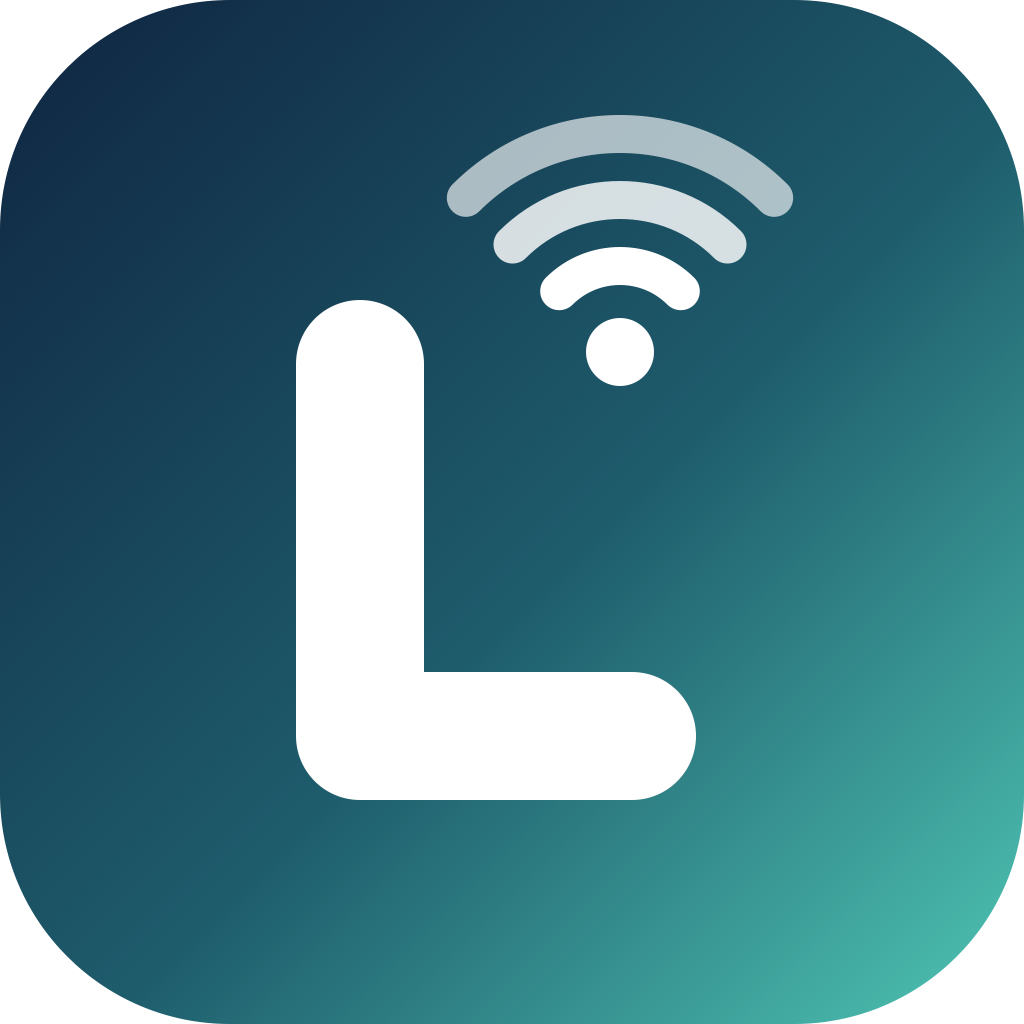
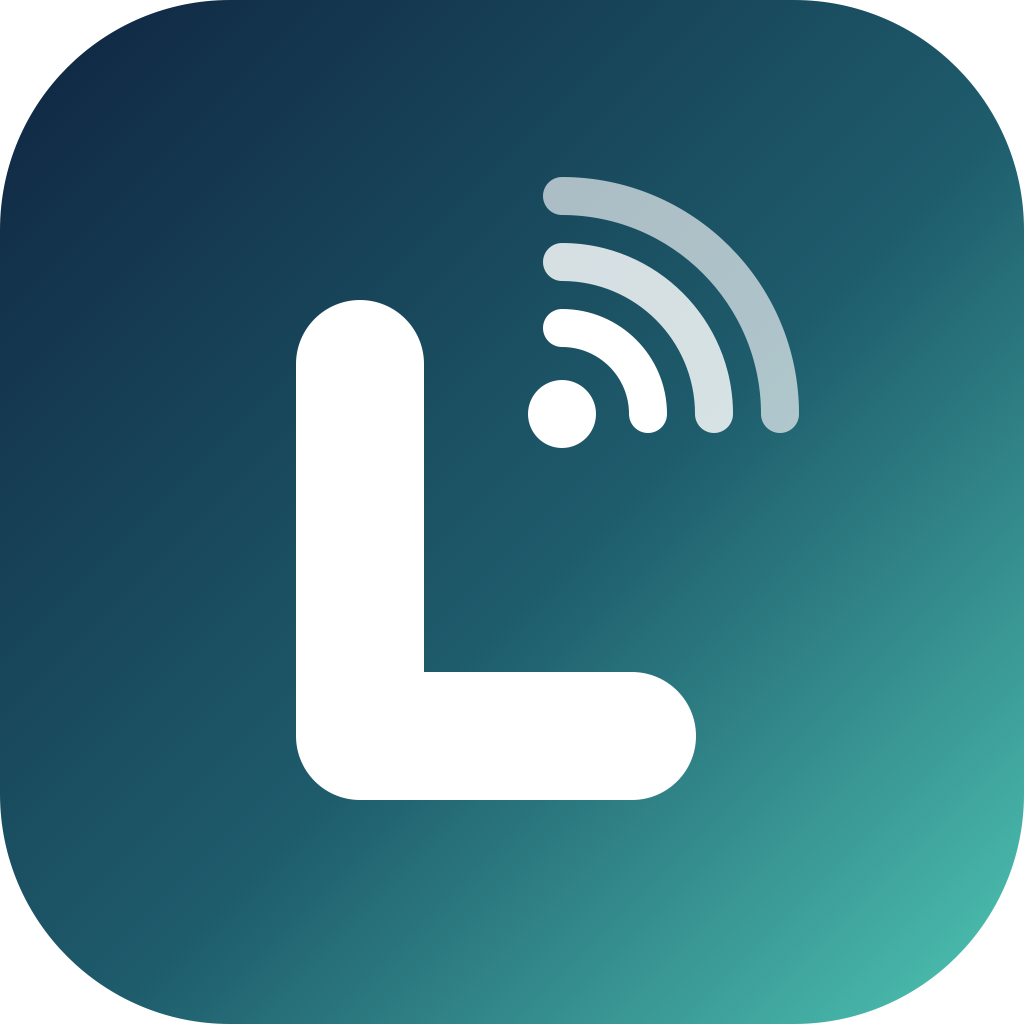
style: tilt the Wi-Fi mark 45° and nest it into the L

Changed region(s): [[0.4375, 0.0938, 0.7812, 0.4375]]

diff --git a/scripts/make_icon.swift b/scripts/make_icon.swift
@@ -27,7 +27,7 @@ let stem = CGRect(x: 296, y: 300, width: 128, height: 500)   // y from the top
 let foot = CGRect(x: 296, y: 672, width: 400, height: 128)
 let cornerRadius: CGFloat = 64
 
-let wifiCentre = CGPoint(x: 620, y: 352)
+let wifiCentre = CGPoint(x: 562, y: 414)
 let wifiRadii: [CGFloat] = [86, 152, 218]
 let wifiStroke: CGFloat = 38
 let wifiDotRadius: CGFloat = 34
@@ -35,7 +35,7 @@ let wifiOpacity: [CGFloat] = [1.0, 0.82, 0.64]
 
 /// Tiny raster sizes turn three arcs into mush, so they get one bolder arc.
 func compactArtwork() -> ([CGFloat], CGFloat, CGFloat) {
-    ([120], 50, 40)
+    ([124], 58, 42)
 }
 
 func makeIcon(margin: CGFloat, pixels: Int, compact: Bool = false) -> NSBitmapImageRep {
@@ -97,20 +97,22 @@ func makeIcon(margin: CGFloat, pixels: Int, compact: Bool = false) -> NSBitmapIm
                 roundedRect: top(rect), cornerWidth: cornerRadius,
                 cornerHeight: cornerRadius, transform: nil))
     }
+    let radii = compact ? compactArtwork().0 : wifiRadii
+    let stroke = compact ? compactArtwork().1 : wifiStroke
+    let dotRadius = compact ? compactArtwork().2 : wifiDotRadius
+
     let centre = top(wifiCentre)
     context.addEllipse(
         in: CGRect(
-            x: centre.x - wifiDotRadius, y: centre.y - wifiDotRadius,
-            width: wifiDotRadius * 2, height: wifiDotRadius * 2))
+            x: centre.x - dotRadius, y: centre.y - dotRadius,
+            width: dotRadius * 2, height: dotRadius * 2))
     context.fillPath()
 
-    let radii = compact ? compactArtwork().0 : wifiRadii
-    let stroke = compact ? compactArtwork().1 : wifiStroke
     for (index, radius) in radii.enumerated() {
         let arc = CGMutablePath()
         arc.addArc(
             center: centre, radius: radius,
-            startAngle: 45 * .pi / 180, endAngle: 135 * .pi / 180,
+            startAngle: 0, endAngle: 90 * .pi / 180,
             clockwise: false)
         context.setAlpha(wifiOpacity[min(index, wifiOpacity.count - 1)])
         context.setStrokeColor(NSColor.white.cgColor)
